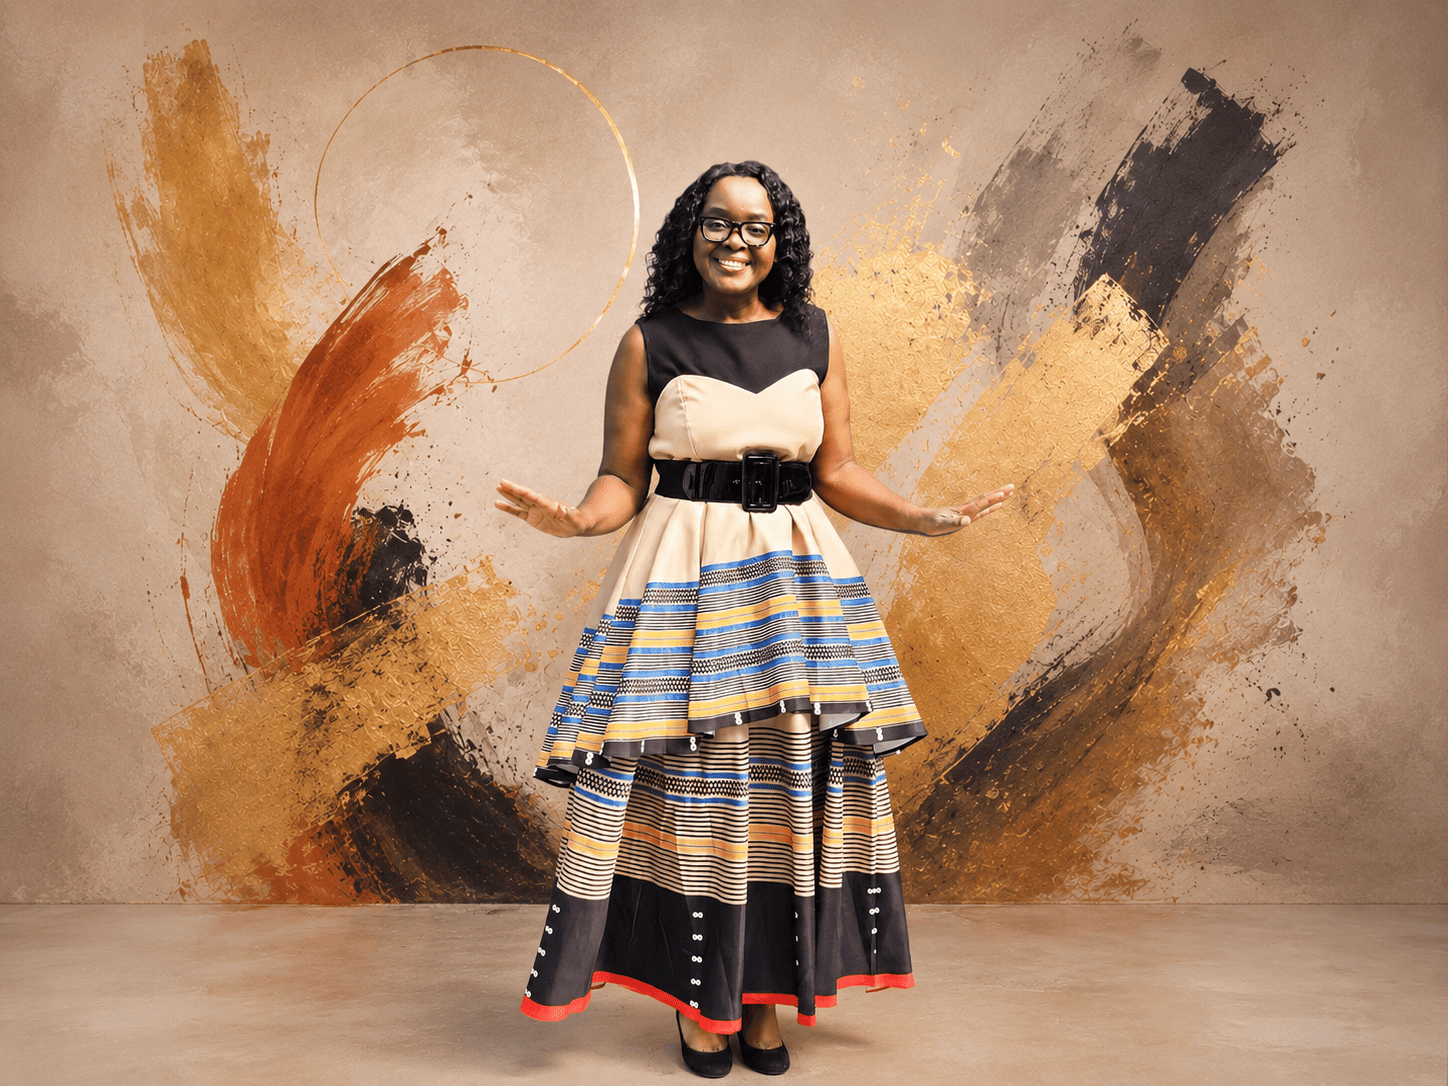
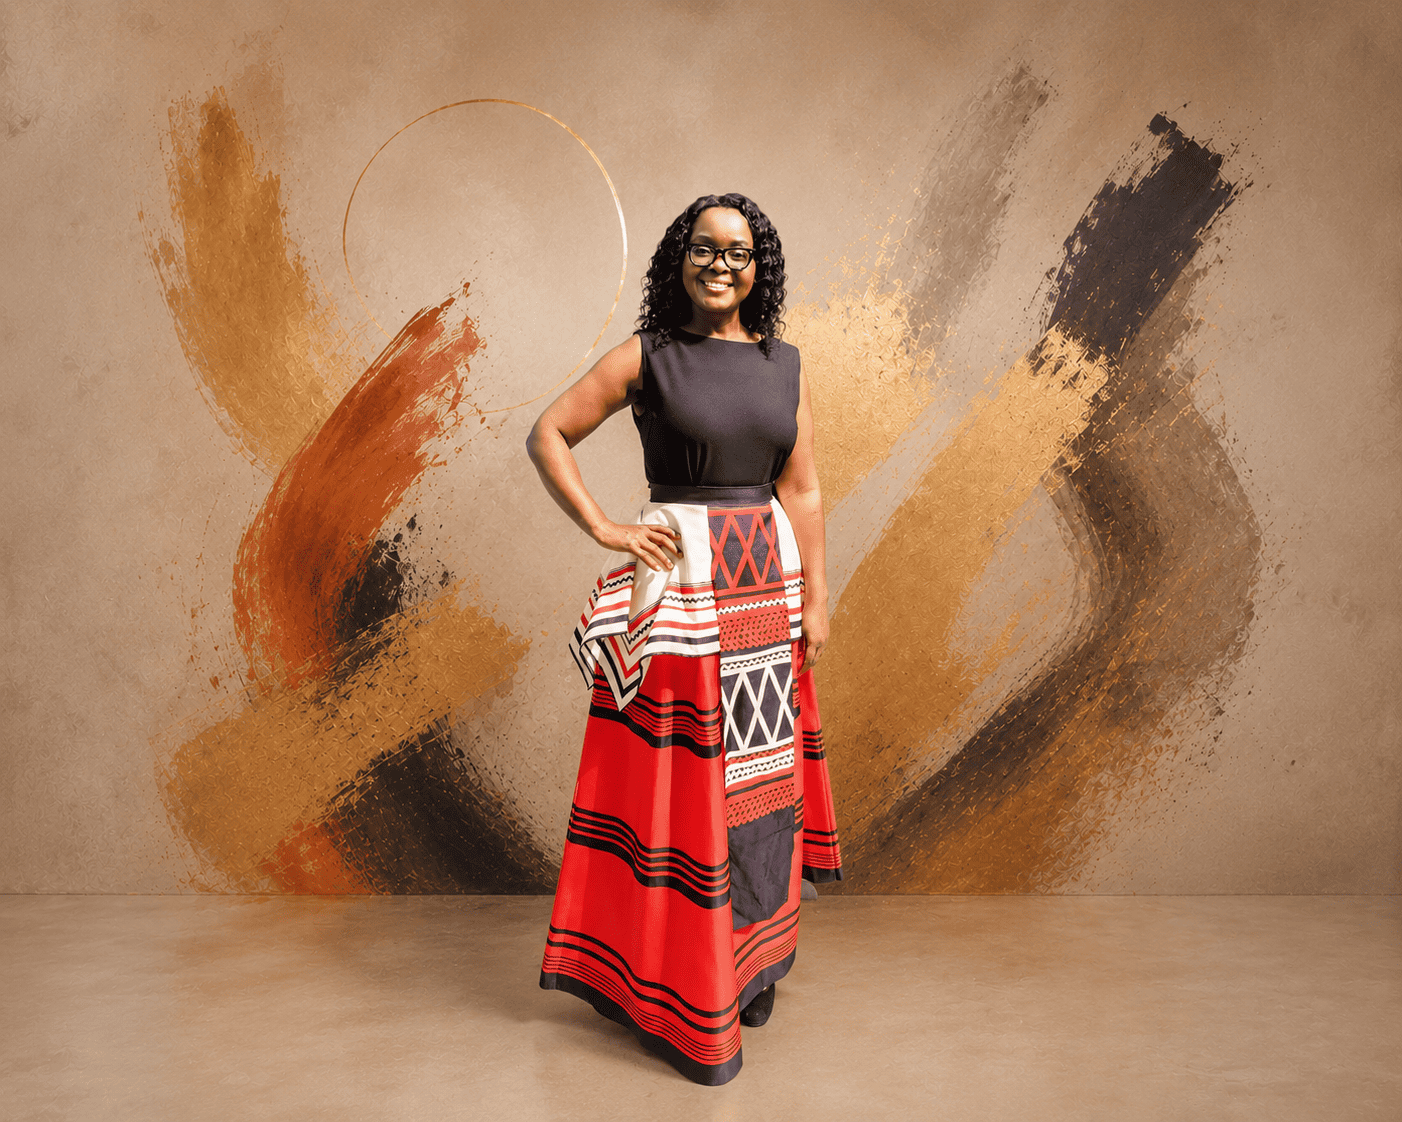
Update about page assets

diff --git a/resources/views/about.blade.php b/resources/views/about.blade.php
@@ -18,7 +18,7 @@
     </section>
 
     <!-- About Story Section -->
-    <section class="about-story">
+        <section class="about-story">
         <div class="container">
             <!-- Intro -->
             <div class="about-intro text-center">
@@ -251,9 +251,9 @@
         }
         .about-block-image img {
             width: 100%;
-            height: 504px;
+            height: 555px;
             object-fit: cover;
-            object-position: top center;
+            object-position: center center;
             display: block;
             border-radius: 12px;
             transition: transform 0.5s ease;